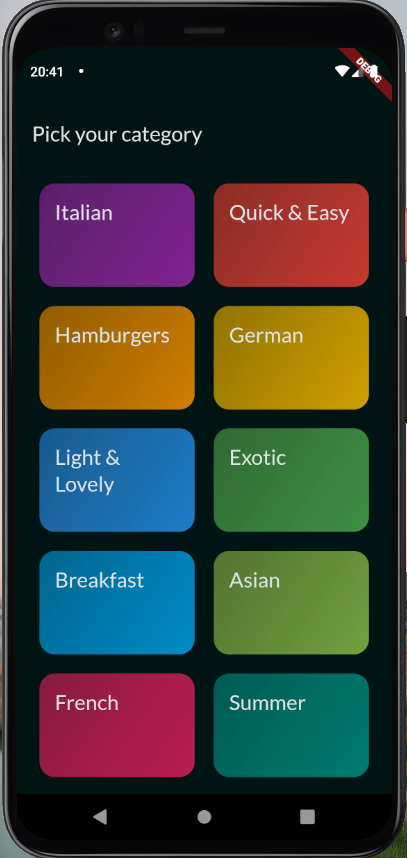
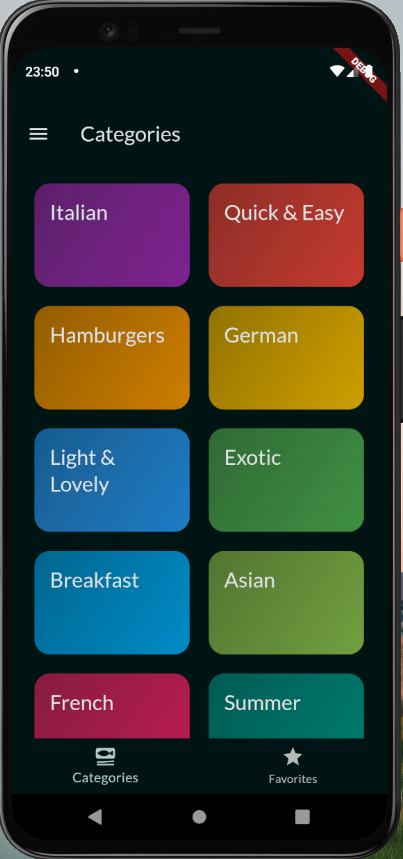
update 2024_12_01

diff --git a/lib/widgets/main_drawer.dart b/lib/widgets/main_drawer.dart
@@ -1,0 +1,86 @@
+import 'package:flutter/material.dart';
+
+class MainDrawer extends StatelessWidget {
+  const MainDrawer({
+    super.key,
+    required this.onSelectScreen,
+  });
+
+  final void Function(String identifier) onSelectScreen;
+
+  @override
+  Widget build(BuildContext context) {
+    return Drawer(
+      child: Column(
+        children: [
+          DrawerHeader(
+            padding: const EdgeInsets.all(20),
+            decoration: BoxDecoration(
+              gradient: LinearGradient(
+                colors: [
+                  Theme.of(context).colorScheme.primaryContainer,
+                  Theme.of(context)
+                      .colorScheme
+                      .primaryContainer
+                      .withOpacity(0.8),
+                ],
+                begin: Alignment.topLeft,
+                end: Alignment.bottomRight,
+              ),
+            ),
+            child: Row(
+              children: [
+                Icon(
+                  Icons.fastfood,
+                  size: 48,
+                  color: Theme.of(context).colorScheme.primary,
+                ),
+                const SizedBox(width: 18),
+                Text(
+                  'Cooking Up!',
+                  style: Theme.of(context).textTheme.titleLarge!.copyWith(
+                        color: Theme.of(context).colorScheme.primary,
+                      ),
+                ),
+              ],
+            ),
+          ),
+          ListTile(
+            leading: Icon(
+              Icons.restaurant,
+              size: 26,
+              color: Theme.of(context).colorScheme.onBackground,
+            ),
+            title: Text(
+              'Meals',
+              style: Theme.of(context).textTheme.titleSmall!.copyWith(
+                    color: Theme.of(context).colorScheme.onBackground,
+                    fontSize: 24,
+                  ),
+            ),
+            onTap: () {
+              onSelectScreen('meals');
+            },
+          ),
+          ListTile(
+            leading: Icon(
+              Icons.settings,
+              size: 26,
+              color: Theme.of(context).colorScheme.onBackground,
+            ),
+            title: Text(
+              'Filters',
+              style: Theme.of(context).textTheme.titleSmall!.copyWith(
+                    color: Theme.of(context).colorScheme.onBackground,
+                    fontSize: 24,
+                  ),
+            ),
+            onTap: () {
+              onSelectScreen('filters');
+            },
+          ),
+        ],
+      ),
+    );
+  }
+}

diff --git a/lib/screens/categories.dart b/lib/screens/categories.dart
@@ -1,11 +1,17 @@
 import 'package:flutter/material.dart';
 import 'package:meals/data/dummy_data.dart';
 import 'package:meals/models/category.dart';
+import 'package:meals/models/meal.dart';
 import 'package:meals/screens/meals.dart';
 import 'package:meals/widgets/category_grid_item.dart';
 
 class CategoriesScreen extends StatelessWidget {
-  const CategoriesScreen({super.key});
+  const CategoriesScreen({
+    super.key,
+    required this.onToggleFavorite,
+  });
+
+  final void Function(Meal meal) onToggleFavorite;
 
   void _selectCategory(BuildContext context, Category category) {
     final filterMeals = dummyMeals
@@ -17,6 +23,7 @@ class CategoriesScreen extends StatelessWidget {
         builder: (ctx) => MealsScreen(
           title: category.title,
           meals: filterMeals,
+          onToggleFavorite: onToggleFavorite,
         ),
       ),
     ); //Navigator.push(context, route);
@@ -24,29 +31,24 @@ class CategoriesScreen extends StatelessWidget {
 
   @override
   Widget build(BuildContext context) {
-    return Scaffold(
-      appBar: AppBar(
-        title: const Text('Pick your category'),
+    return GridView(
+      padding: const EdgeInsets.all(24),
+      gridDelegate: const SliverGridDelegateWithFixedCrossAxisCount(
+        crossAxisCount: 2,
+        childAspectRatio: 3 / 2,
+        crossAxisSpacing: 20,
+        mainAxisSpacing: 20,
       ),
-      body: GridView(
-        padding: const EdgeInsets.all(24),
-        gridDelegate: const SliverGridDelegateWithFixedCrossAxisCount(
-          crossAxisCount: 2,
-          childAspectRatio: 3 / 2,
-          crossAxisSpacing: 20,
-          mainAxisSpacing: 20,
-        ),
-        children: [
-          // availableCategories.map((category)=>CategoryGridItem(category: category)).toList()
-          for (final category in availableCategories)
-            CategoryGridItem(
-              category: category,
-              onSelectCategory: () {
-                _selectCategory(context, category);
-              },
-            )
-        ],
-      ),
+      children: [
+        // availableCategories.map((category)=>CategoryGridItem(category: category)).toList()
+        for (final category in availableCategories)
+          CategoryGridItem(
+            category: category,
+            onSelectCategory: () {
+              _selectCategory(context, category);
+            },
+          )
+      ],
     );
   }
 }

diff --git a/lib/screens/tab.dart b/lib/screens/tab.dart
@@ -1,0 +1,92 @@
+import 'package:flutter/material.dart';
+import 'package:meals/models/meal.dart';
+import 'package:meals/screens/categories.dart';
+import 'package:meals/screens/meals.dart';
+import 'package:meals/widgets/main_drawer.dart';
+
+class TabScreen extends StatefulWidget {
+  const TabScreen({super.key});
+
+  @override
+  State<StatefulWidget> createState() {
+    return _TabsScreenState();
+  }
+}
+
+class _TabsScreenState extends State<TabScreen> {
+  int _selectedPageIndex = 0;
+  final List<Meal> _favoriteMeals = [];
+
+  void _showInfoMessage(String message) {
+    ScaffoldMessenger.of(context).clearSnackBars();
+    ScaffoldMessenger.of(context).showSnackBar(
+      SnackBar(
+        content: Text(message),
+      ),
+    );
+  }
+
+  void _toggleMealFavoritesStatus(Meal meal) {
+    final isExisting = _favoriteMeals.contains(meal);
+
+    if (isExisting) {
+      setState(() {
+        _favoriteMeals.remove(meal);
+      });
+      _showInfoMessage('Meal is no longer a favorite.');
+    } else {
+      setState(() {
+        _favoriteMeals.add(meal);
+      });
+      _showInfoMessage('Marked as a favorite.');
+    }
+  }
+
+  void _selectPage(int index) {
+    setState(() {
+      _selectedPageIndex = index;
+    });
+  }
+
+  void _setScreen(String identifier) {
+    if (identifier == 'filters') {
+    } else {
+      Navigator.of(context).pop();
+    }
+  }
+
+  @override
+  Widget build(BuildContext context) {
+    Widget activePage = CategoriesScreen(
+      onToggleFavorite: _toggleMealFavoritesStatus,
+    );
+    var activePageTitle = 'Categories';
+
+    if (_selectedPageIndex == 1) {
+      activePage = MealsScreen(
+        meals: _favoriteMeals,
+        onToggleFavorite: _toggleMealFavoritesStatus,
+      );
+      activePageTitle = 'Your Favorites';
+    }
+
+    return Scaffold(
+      appBar: AppBar(
+        title: Text(activePageTitle),
+      ),
+      drawer: MainDrawer(
+        onSelectScreen: _setScreen,
+      ),
+      body: activePage,
+      bottomNavigationBar: BottomNavigationBar(
+        onTap: _selectPage,
+        currentIndex: _selectedPageIndex,
+        items: const [
+          BottomNavigationBarItem(
+              icon: Icon(Icons.set_meal), label: 'Categories'),
+          BottomNavigationBarItem(icon: Icon(Icons.star), label: 'Favorites'),
+        ],
+      ),
+    );
+  }
+}

diff --git a/lib/screens/filters.dart b/lib/screens/filters.dart
@@ -1,0 +1,49 @@
+import 'package:flutter/material.dart';
+
+class FiltersScreen extends StatefulWidget {
+  const FiltersScreen({super.key});
+
+  @override
+  State<StatefulWidget> createState() {
+    return _FiltersScreenState();
+  }
+}
+
+class _FiltersScreenState extends State<FiltersScreen> {
+  var _glutenFreeFilterSet = false;
+
+  @override
+  Widget build(BuildContext context) {
+    return Scaffold(
+      appBar: AppBar(
+        title: const Text('Your Filters'),
+      ),
+      body: Column(
+        children: [
+          SwitchListTile(
+            value: _glutenFreeFilterSet,
+            onChanged: (isChecked) {
+              setState(() {
+                _glutenFreeFilterSet = isChecked;
+              });
+            },
+            title: Text(
+              'Gluten-free',
+              style: Theme.of(context).textTheme.titleLarge!.copyWith(
+                    color: Theme.of(context).colorScheme.onBackground,
+                  ),
+            ),
+            subtitle: Text(
+              'Only include gluten-free meals.',
+              style: Theme.of(context).textTheme.titleMedium!.copyWith(
+                    color: Theme.of(context).colorScheme.onBackground,
+                  ),
+            ),
+            activeColor: Theme.of(context).colorScheme.tertiary,
+            contentPadding: const EdgeInsets.only(left: 34, right: 22),
+          ),
+        ],
+      ),
+    );
+  }
+}

diff --git a/lib/screens/meals.dart b/lib/screens/meals.dart
@@ -6,17 +6,20 @@ import 'package:meals/widgets/meal_item.dart';
 class MealsScreen extends StatelessWidget {
   const MealsScreen({
     super.key,
-    required this.title,
+    this.title,
     required this.meals,
+    required this.onToggleFavorite,
   });
 
-  final String title;
+  final String? title;
   final List<Meal> meals;
+  final void Function(Meal meal) onToggleFavorite;
 
   void selectMeal(BuildContext context, Meal meal) {
     Navigator.of(context).push(MaterialPageRoute(
       builder: (ctx) => MealDetailsScreen(
         meal: meal,
+        onToggleFavorite: onToggleFavorite,
       ),
     ));
   }
@@ -58,9 +61,12 @@ class MealsScreen extends StatelessWidget {
       );
     }
 
+    if (title == null) {
+      return content;
+    }
     return Scaffold(
         appBar: AppBar(
-          title: Text(title),
+          title: Text(title!),
         ),
         body: content);
   }

diff --git a/lib/screens/meal_details.dart b/lib/screens/meal_details.dart
@@ -5,15 +5,23 @@ class MealDetailsScreen extends StatelessWidget {
   const MealDetailsScreen({
     super.key,
     required this.meal,
+    required this.onToggleFavorite,
   });
 
   final Meal meal;
+  final void Function(Meal meal) onToggleFavorite;
+
   @override
   Widget build(BuildContext context) {
     return Scaffold(
-        appBar: AppBar(
-          title: Text(meal.title),
-        ),
+        appBar: AppBar(title: Text(meal.title), actions: [
+          IconButton(
+            onPressed: () {
+              onToggleFavorite(meal);
+            },
+            icon: const Icon(Icons.star),
+          ),
+        ]),
         body: SingleChildScrollView(
           child: Column(
             children: [

diff --git a/lib/main.dart b/lib/main.dart
@@ -2,6 +2,7 @@ import 'package:flutter/material.dart';
 
 import 'package:google_fonts/google_fonts.dart';
 import 'package:meals/screens/categories.dart';
+import 'package:meals/screens/tab.dart';
 
 final theme = ThemeData(
   useMaterial3: true,
@@ -24,7 +25,7 @@ class App extends StatelessWidget {
   Widget build(BuildContext context) {
     return MaterialApp(
       theme: theme,
-      home: const CategoriesScreen(),
+      home: const TabScreen(),
     );
   }
 }
